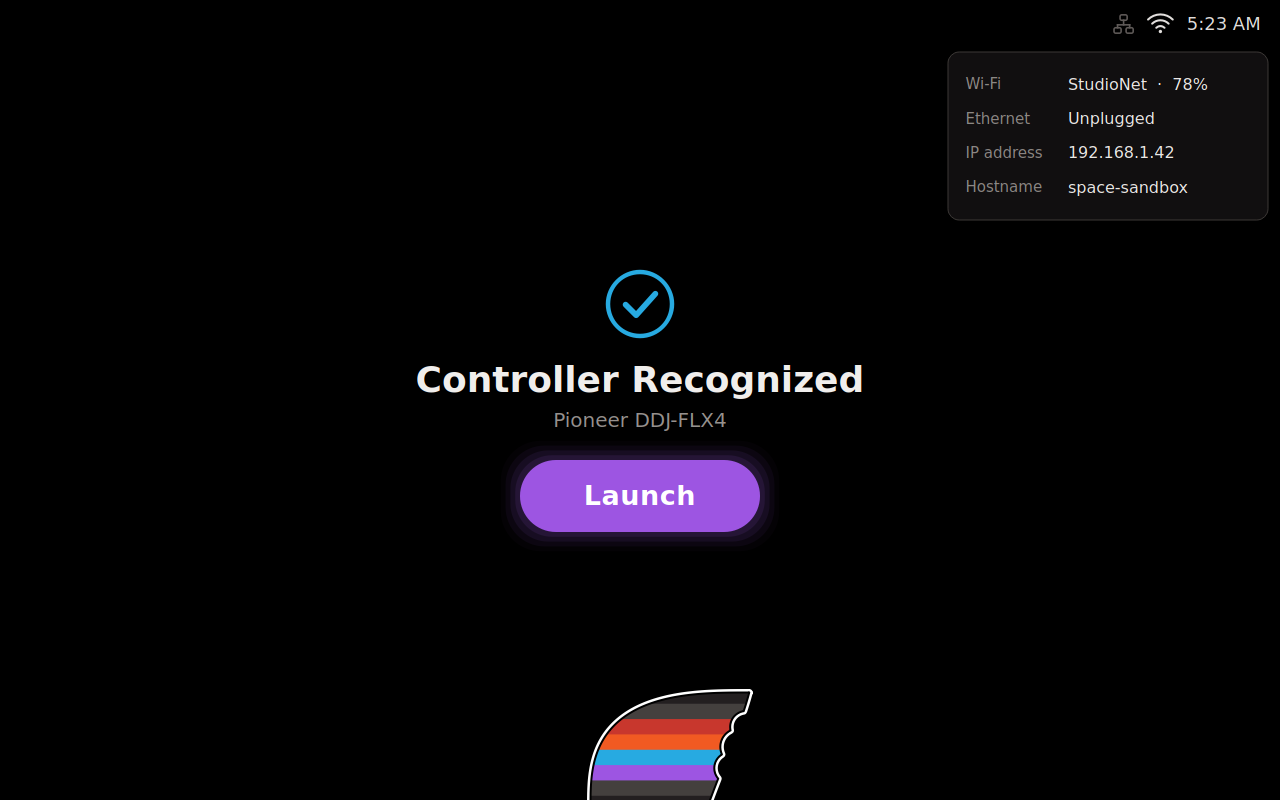
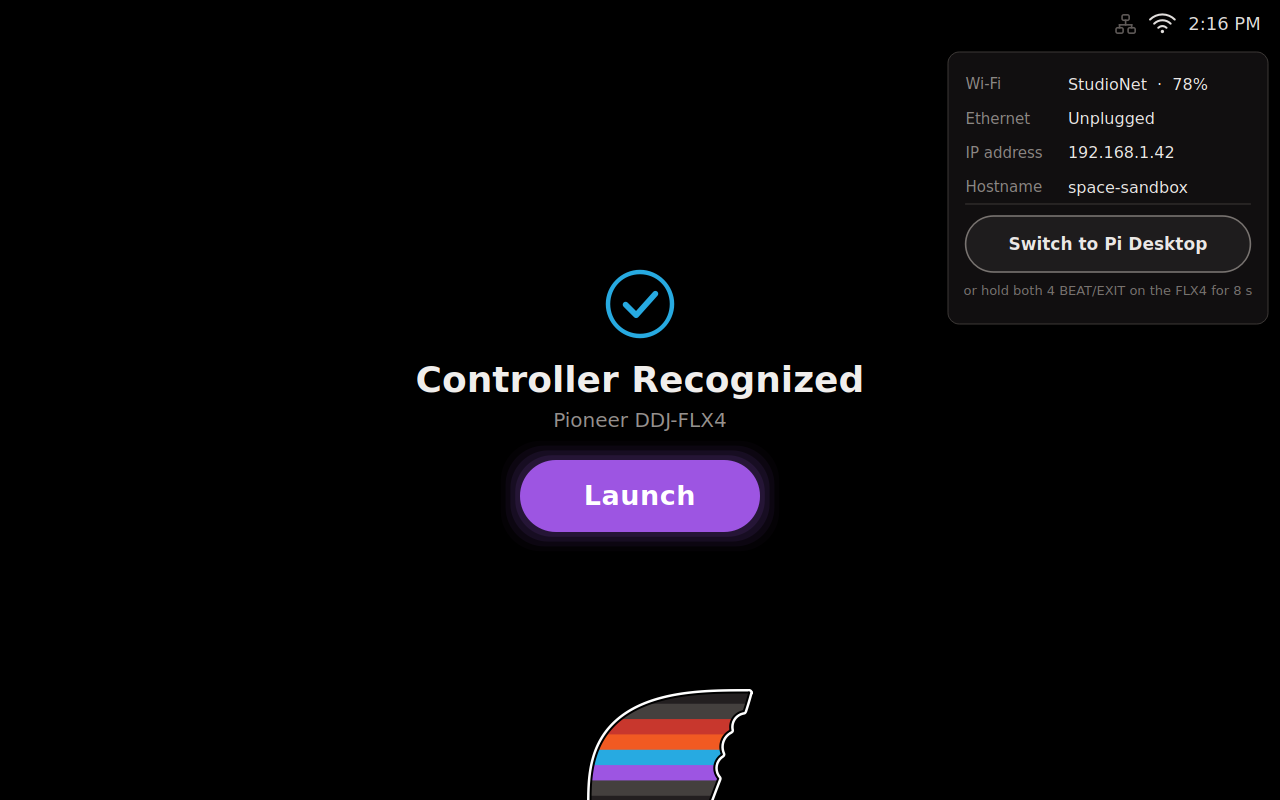
Switch to Pi Desktop via bite-mode: tray button, Ctrl+Alt+D, Bite Launcher shortcut switches back

Changed region(s): [[0.75, 0.25, 1.0, 0.375], [0.875, 0.0, 0.9688, 0.0625]]

diff --git a/bitedj_launcher.py b/bitedj_launcher.py
@@ -339,6 +339,8 @@ class Desktop(QWidget):
         self.proc = None
         self.launch_started = 0.0
         self.external_running = False
+        self.switching = False            # "Opening Pi Desktop..." screen while bite-mode takes over
+        self.switch_pressed = False
 
         self.clock = QElapsedTimer()
         self.clock.start()
@@ -454,6 +456,28 @@ class Desktop(QWidget):
                     return int(pid)
         return None
 
+    def bite_mode_cmd(self):
+        """bite-mode ships with BiteDJ-On-Off-Macro-with-FLX4 (installed to ~/bin)."""
+        for cand in (self.conf.get("BITE_MODE", ""), os.path.expanduser("~/bin/bite-mode"), "/usr/local/bin/bite-mode"):
+            if cand and os.access(os.path.expanduser(cand), os.X_OK):
+                return os.path.expanduser(cand)
+        return None
+
+    def switch_to_desktop(self):
+        cmd = self.bite_mode_cmd()
+        self.net_open = False
+        if not cmd:
+            self.message = "Mode switch not installed: install BiteDJ-On-Off-Macro-with-FLX4"
+            self.update()
+            return
+        self.switching = True
+        self.update()
+        # Detached: bite-mode closes this launcher as part of the switch
+        if not QProcess.startDetached(cmd, ["desktop"]):
+            self.switching = False
+            self.message = "Couldn't start bite-mode"
+        self.update()
+
     def launch(self):
         if self.state == RUNNING or self.proc is not None:
             return
@@ -522,6 +546,12 @@ class Desktop(QWidget):
         qp.setRenderHint(QPainter.RenderHint.SmoothPixmapTransform)
         qp.fillRect(ev.rect(), Qt.GlobalColor.black)
         if self.state == RUNNING and self.fade >= 1.0:
+            return
+        if self.switching:
+            u = self.u
+            qp.setPen(QColor(150, 145, 142))
+            qp.setFont(self.font(3.0 * u, QFont.Weight.Medium))
+            qp.drawText(self.rect(), Qt.AlignmentFlag.AlignCenter, "Opening Pi Desktop\u2026")
             return
         self.paint_tray(qp)
         t = self.clock.elapsed() / 1000.0
@@ -684,8 +714,13 @@ class Desktop(QWidget):
 
     def net_panel_rect(self):
         u = self.u
-        w, h = 40 * u, 21 * u
+        w, h = 40 * u, 34 * u
         return QRectF(self.width() - w - 1.5 * u, 6.5 * u, w, h)
+
+    def switch_button_rect(self):
+        u = self.u
+        r = self.net_panel_rect()
+        return QRectF(r.left() + 2.2 * u, r.top() + 20.5 * u, r.width() - 4.4 * u, 7 * u)
 
     def paint_net_panel(self, qp):
         u = self.u
@@ -707,11 +742,29 @@ class Desktop(QWidget):
             qp.setPen(QColor(235, 232, 230))
             qp.drawText(QRectF(r.left() + 15 * u, y, r.width() - 17 * u, 4 * u), Qt.AlignmentFlag.AlignVCenter, v)
             y += 4.3 * u
+        # Switch to the regular Raspberry Pi desktop (runs bite-mode desktop)
+        qp.setPen(QPen(QColor(60, 56, 54), 1))
+        qp.drawLine(QPointF(r.left() + 2.2 * u, r.top() + 19 * u), QPointF(r.right() - 2.2 * u, r.top() + 19 * u))
+        b = self.switch_button_rect()
+        qp.setPen(QPen(QColor(120, 115, 112), max(1.0, 0.2 * u)))
+        qp.setBrush(QColor(60, 56, 54) if self.switch_pressed else QColor(30, 28, 29))
+        qp.drawRoundedRect(b, b.height() / 2, b.height() / 2)
+        qp.setPen(QColor(235, 232, 230))
+        qp.setFont(self.font(2.2 * u, QFont.Weight.DemiBold))
+        qp.drawText(b, Qt.AlignmentFlag.AlignCenter, "Switch to Pi Desktop")
+        qp.setPen(QColor(120, 115, 112))
+        qp.setFont(self.font(1.7 * u))
+        qp.drawText(QRectF(r.left(), b.bottom() + 0.6 * u, r.width(), 3.5 * u), Qt.AlignmentFlag.AlignCenter,
+                    "or hold both 4 BEAT/EXIT on the FLX4 for 8 s")
         qp.restore()
 
     # ---------------------------------------------------------------- input (touch arrives as mouse events)
     def mousePressEvent(self, e):
         p = e.position()
+        if self.net_open and self.switch_button_rect().contains(p):
+            self.switch_pressed = True
+            self.update(self.net_panel_rect().toAlignedRect().adjusted(-4, -4, 4, 4))
+            return
         if self.state == RECOGNIZED and self.button_rect().contains(p):
             self.pressed = True
             self.update(self.button_rect().toAlignedRect().adjusted(-40, -40, 40, 40))
@@ -720,6 +773,12 @@ class Desktop(QWidget):
         p = e.position()
         was = self.pressed
         self.pressed = False
+        if self.switch_pressed:
+            self.switch_pressed = False
+            if self.net_open and self.switch_button_rect().contains(p):
+                self.switch_to_desktop()
+            self.update()
+            return
         if was:
             self.update(self.button_rect().toAlignedRect().adjusted(-40, -40, 40, 40))
             if self.button_rect().contains(p):
@@ -728,7 +787,7 @@ class Desktop(QWidget):
         if self.tray_rect().contains(p.toPoint()):
             self.net_open = not self.net_open
             self.refresh_net()
-        elif self.net_open:
+        elif self.net_open and not self.net_panel_rect().contains(p):
             self.net_open = False
         self.update()
 
@@ -736,6 +795,8 @@ class Desktop(QWidget):
         mods = e.modifiers()
         if e.key() == Qt.Key.Key_Q and mods & Qt.KeyboardModifier.ControlModifier and mods & Qt.KeyboardModifier.AltModifier:
             QApplication.quit()
+        elif e.key() == Qt.Key.Key_D and mods & Qt.KeyboardModifier.ControlModifier and mods & Qt.KeyboardModifier.AltModifier:
+            self.switch_to_desktop()
         elif e.key() in (Qt.Key.Key_Return, Qt.Key.Key_Enter, Qt.Key.Key_Space) and self.state == RECOGNIZED:
             self.launch()
 
@@ -815,7 +876,9 @@ def main():
         w.show()
     else:
         # labwc's rc.xml rule fullscreens every new window; asking again would toggle it back.
-        w.showFullScreen() if "labwc" not in os.environ.get("XDG_CURRENT_DESKTOP", "").lower() else w.show()
+        rc = read(os.path.expanduser("~/.config/labwc/rc.xml"))
+        kiosk_rule = 'identifier="*"' in rc and "ToggleFullscreen" in rc
+        w.show() if kiosk_rule else w.showFullScreen()
         QTimer.singleShot(1500, lambda: w.isFullScreen() or w.showFullScreen())
     sys.exit(app.exec())
 

diff --git a/README.md b/README.md
@@ -9,7 +9,7 @@ A black, touch-first launcher for the Raspberry Pi 4 DJ rig. It hides the Raspbe
 ## What's on screen
 
 - **Black screen only.** No panel, menu, wallpaper or cursor. A black background starts first, so the Raspberry Pi desktop never shows.
-- **Small tray, top right:** Ethernet icon, Wi-Fi signal and the clock. Tap the tray to see the Wi-Fi network, Ethernet status, IP address and hostname (handy for SSH or VNC).
+- **Small tray, top right:** Ethernet icon, Wi-Fi signal and the clock. Tap the tray to see the Wi-Fi network, Ethernet status, IP address and hostname (handy for SSH or VNC), plus a **Switch to Pi Desktop** button.
 - **Centre, no controller:** **No Controller Recognized** with "Plug in a DJ controller supported by BiteDJ". There is no button, so nothing can be launched.
 - **Centre, controller plugged in:** **Controller Recognized**, the controller's name, and the purple **Launch** button (`#9d55e2`, the purple from the logo). Unplug the controller and the button goes away again.
 - **Shark fin:** a dorsal fin in the logo's stripe order (charcoal, gray, red, orange, blue, purple, gray, charcoal) shaped from the logo's "D". The front edge uses the D's measured curve: a superellipse with exponent 2.9, 1.41 times as wide as it is tall. It also has the D's sharp top corner, its three-lobed bite on the back edge, and the logo's outline: a 2 px black keyline with about 2.5 px of white around it. It sits just above the bottom edge and glides slowly and steadily, Jaws-style, with no bobbing. It takes about 30 seconds to cross from left to right, pauses off screen, then turns around and comes back.
@@ -50,9 +50,25 @@ The installer:
 
 To undo everything, run `./uninstall.sh`.
 
+## Switch between Bite Launcher and the Pi desktop
+
+Switching uses `bite-mode` from [BiteDJ-On-Off-Macro-with-FLX4](https://github.com/ZoeroXD/BiteDJ-On-Off-Macro-with-FLX4), so install that too. Once it's installed, you can switch any of these ways:
+
+| From | To | How |
+|---|---|---|
+| Bite Launcher | Pi desktop | Tap the clock, then **Switch to Pi Desktop** |
+| Bite Launcher | Pi desktop | **Ctrl+Alt+D** on a keyboard |
+| Either | The other | Hold **both 4 BEAT/EXIT** buttons on the FLX4 for 8 seconds |
+| Pi desktop | Bite Launcher | Double-click the **Bite Launcher** desktop icon, or open it from the app menu |
+| Either | Either | Over SSH: `~/bin/bite-mode desktop`, `~/bin/bite-mode launcher` or `~/bin/bite-mode status` |
+
+Going to the desktop closes the launcher and BiteDJ (BiteDJ gets 15 seconds to save and quit), then brings back the taskbar and desktop icons. Going back to the launcher stops the taskbar and desktop and opens the launcher full screen on black. The Pi always starts in launcher mode at boot.
+
+If `bite-mode` isn't installed, **Switch to Pi Desktop** shows a short note saying so, and the **Bite Launcher** icon just opens the launcher.
+
 ## Bite Launcher shortcut
 
-`bite-launcher.desktop` shows as **Bite Launcher** with the striped-fin icon. Use it when the Pi is on a normal desktop session, or over VNC or Pi Connect. Only one copy runs at a time, so opening the shortcut while the launcher is already on screen does nothing.
+`bite-launcher.desktop` shows as **Bite Launcher** with the striped-fin icon, on the desktop and in the app menu. It runs `bite-launcher-open`, which switches back to launcher mode through `bite-mode` when it's installed, or simply opens the launcher when it isn't. Only one copy runs at a time, so opening it while the launcher is already on screen does nothing.
 
 ## Build it into the image
 
@@ -82,8 +98,8 @@ It adds `python3-pyqt6` to the base packages, puts the launcher, icon and shortc
 - **While BiteDJ runs,** the launcher stays behind it, stops its animation and network checks, and only does a light check every 1.5 s to see whether BiteDJ is still running, so it uses almost no CPU. When BiteDJ quits, the launcher screen is already there underneath, with no flash of the desktop.
 - **If BiteDJ closes within 20 seconds with an error,** an orange note says so and Launch stays available.
 - **BiteDJ started some other way** (the FLX4 hold-button macro, or SSH) is detected, and the launcher stays out of the way. The detection matches the binary set by `DJRIG_APP` or `/usr/local/bin/bitedj`. If your hold macro still points at `~/bitedj/build/mixxx`, set `DJRIG_APP` to that path so both use the same binary.
-- **Touch** works as mouse clicks. **Enter or Space** presses Launch. **Ctrl+Alt+Q** quits the launcher (the wrapper restarts it).
-- **Fullscreen:** the kiosk `rc.xml` already makes every window fullscreen, so the launcher doesn't request fullscreen itself, because that would switch it back out. On a normal desktop it goes fullscreen by itself after 1.5 seconds.
+- **Touch** works as mouse clicks. **Enter or Space** presses Launch. **Ctrl+Alt+D** switches to the Pi desktop. **Ctrl+Alt+Q** quits the launcher (the wrapper restarts it).
+- **Fullscreen:** if `~/.config/labwc/rc.xml` has the kiosk rule that makes every window fullscreen, the launcher leaves it to that rule (asking again would switch it back out). Otherwise, as on the regular Pi desktop, it goes fullscreen by itself.
 
 ## Testing on a PC
 
@@ -98,7 +114,8 @@ python3 bitedj_launcher.py --snapshot out.png --at 6         # render one frame
 | File | Purpose |
 |---|---|
 | `bitedj_launcher.py` | The launcher (Python 3 + PyQt6, one file) |
-| `bitedj-launcher` | Wrapper that restarts it if it exits (used by labwc autostart) |
+| `bitedj-launcher` | Wrapper that restarts it if it exits, and stops when its labwc session ends (used by labwc autostart) |
+| `bite-launcher-open` | What the Bite Launcher shortcut runs: switches back via `bite-mode`, or opens the launcher |
 | `bite-launcher.desktop`, `bite-launcher.png` | Bite Launcher shortcut and icon |
 | `djrig-launcher.conf` | Settings added to `/etc/djrig.conf` |
 | `install.sh`, `uninstall.sh` | Install and remove on a running Pi |
